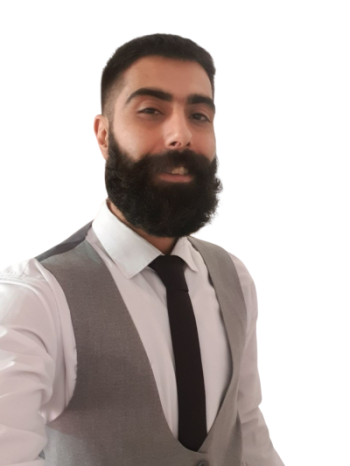
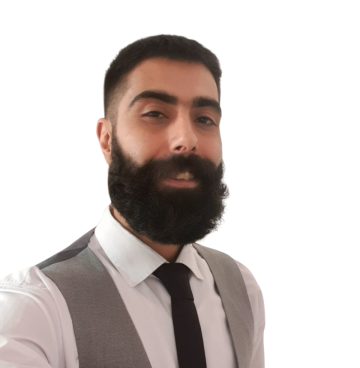
feat(add html and css)

diff --git a/css/style.css b/css/style.css
@@ -1,54 +1,61 @@
 
+/*------------------
+  Fonts
+------------------*/
+@import url('https://fonts.googleapis.com/css2?family=Poppins:wght@300;400;500;600;700&display=swap');
 
 /*------------------
   Variables
  ------------------*/
 
-:root{
-    --main-color:#e02f6b;
+:root {
+    --main-color: #e02f6b;
     --blue: #0000ff;
     --blue-dark: #18293c;
-    --orange:#ffa500;
+    --orange: #ffa500;
     --green-yellow: #cddc39;
-    --pink-light:#efa2b4;
+    --pink-light: #efa2b4;
     --cyan-light: #aef1ee;
     --white: #ffffff;
-    --whit-alpha-40: rgba(255,255,255,0.40);
-    --whit-alpha-25: rgba(255,255,255,0.25);
+    --whit-alpha-40: rgba(255, 255, 255, 0.40);
+    --whit-alpha-25: rgba(255, 255, 255, 0.25);
     --backdrop-filter-blur: blur(5px);
 }
-
-
 
 
 /*-------------------------
    Global setting
 ------------------------ */
 
-*{
+* {
     margin: 0;
     padding: 0;
     box-sizing: border-box;
     outline: none;
 }
+
 ::before,
-::after{
+::after {
     box-sizing: border-box;
 }
-body{
+
+body {
     min-height: 100vh;
-    background-image: linear-gradient(to bottom right,var(--pink-light),var(--cyan-light));
+    background-image: linear-gradient(to bottom right, var(--pink-light), var(--cyan-light));
     font-size: 16px;
+    font-family: 'Poppins', sans-serif;
+    font-weight: 300;
     color: var(--blue-dark);
     line-height: 1.5;
     overflow: hidden;
     -webkit-tap-highlight-color: transparent;
     padding: 5vh 15px;
 }
-body:before{
+
+body:before {
     width: 100%;
     height: 100%;
-    content:'';
+    content: '';
     position: fixed;
     left: 0;
     right: 0;
@@ -56,46 +63,130 @@ body:before{
     opacity: 0.12;
     z-index: -1;
 }
-img{
+a{
+    text-decoration: none;
+}
+h1,h2{
+    font-weight: 600;
+}
+h3,h4,h5,h6{
+    font-weight: 500;
+}
+img {
     max-width: 100%;
     vertical-align: middle;
+    /*padding-right: 50px;*/
 }
-section{
+
+section {
     min-height: 90vh;
     background-color: var(--whit-alpha-25);
     border: 1px solid var(--whit-alpha-40);
     border-radius: 30px;
+    backdrop-filter: var(--backdrop-filter-blur);
 }
-.main{
+
+.main {
     max-width: 1200px;
     margin: auto;
 }
-.container{
-    background-color: red;
+
+.container {
+    width: 100%;
     padding: 0 40px;
 }
-.row{
+
+.row {
     display: flex;
     flex-wrap: wrap;
 }
-.align-items-center{
+
+.align-items-center {
     align-items: center;
 }
+/*------------------
+   Buttons
+------------------*/
+.btn{
+    display: inline-block;
+    line-height: 1.5;
+    background-color: var(--whit-alpha-25);
+    border: 1px solid var(--whit-alpha-40);
+    padding: 10px 28px;
+    border-radius: 30px;
+    color: var(--main-color);
+    font-weight: 500;
+    text-transform: capitalize;
+    font-family: inherit;
+    font-size: 1rem;
+    cursor: pointer;
+    user-select: none;
+    position: relative;
+    overflow: hidden;
+    vertical-align: middle;
+    transition: color 0.3s ease;
+}
+.btn::before{
+    content: '';
+    position: absolute;
+    left: 0;
+    top: 0;
+    height: 100%;
+    width: 0;
+    background-color: var(--main-color);
+    z-index: -1;
+    transition: width 0.3s ease;
+}
+.btn:hover:before{
+    width: 100%;
+}
+.btn:hover{
+    color: var(--white);
+}
+
 /*-----------------
    Home Section
 -----------------*/
-.home-text{
-    background-color: blue;
+.home-section {
+    display: flex;
+    padding: 120px 0;
 }
-.home-img{
-    background-color: green;
-}
+
 .home-text,
-.home-img{
+.home-img {
     width: 50%;
     padding: 15px;
 }
+
+.home-text p {
+    font-size: 1.2rem;
+}
+
+.home-text h1 {
+    font-size: 3.2rem;
+    text-transform: capitalize;
+}
+
+.home-text h2 {
+    font-size: 1.6rem;
+    text-transform: capitalize;
+    font-weight: 300;
+    margin: 0 0 30px;
+}
+.home-text .btn{
+    margin: 0 15px 15px 0;
+}
+
 .home-img .img-box {
-    max-width: 360px;
+    max-width: 400px;
     background-color: var(--whit-alpha-25);
+    border-radius: 50%;
+    border: 8px solid var(--whit-alpha-25);
+    margin: auto;
+    /*overflow: hidden;*/
+}
+
+.home-img .img-box img {
+    width: 100%;
+    border-radius: 50%;
 }

diff --git a/index.html b/index.html
@@ -14,17 +14,19 @@
 <div class="main">
 
 <!--    Home Section Start-->
-    <section class="home-section">
+    <section class="home-section align-items-center">
         <div class="container">
             <div class="row align-items-center">
                 <div class="home-text">
                     <p>Hello, I'm</p>
                     <h1>Mehrdad Pashaei</h1>
                     <h2>frontend web developer</h2>
+                    <a href="#" class="btn">more about me</a>
+                    <a href="#" class="btn">portfolio</a>
                 </div>
                 <div class="home-img">
                     <div class="img-box">
-                        <img src="./assets/my-pic33.png" alt="profile-img">
+                        <img src="./assets/my-pic34.png" alt="profile-img">
                     </div>
                 </div>
             </div>
